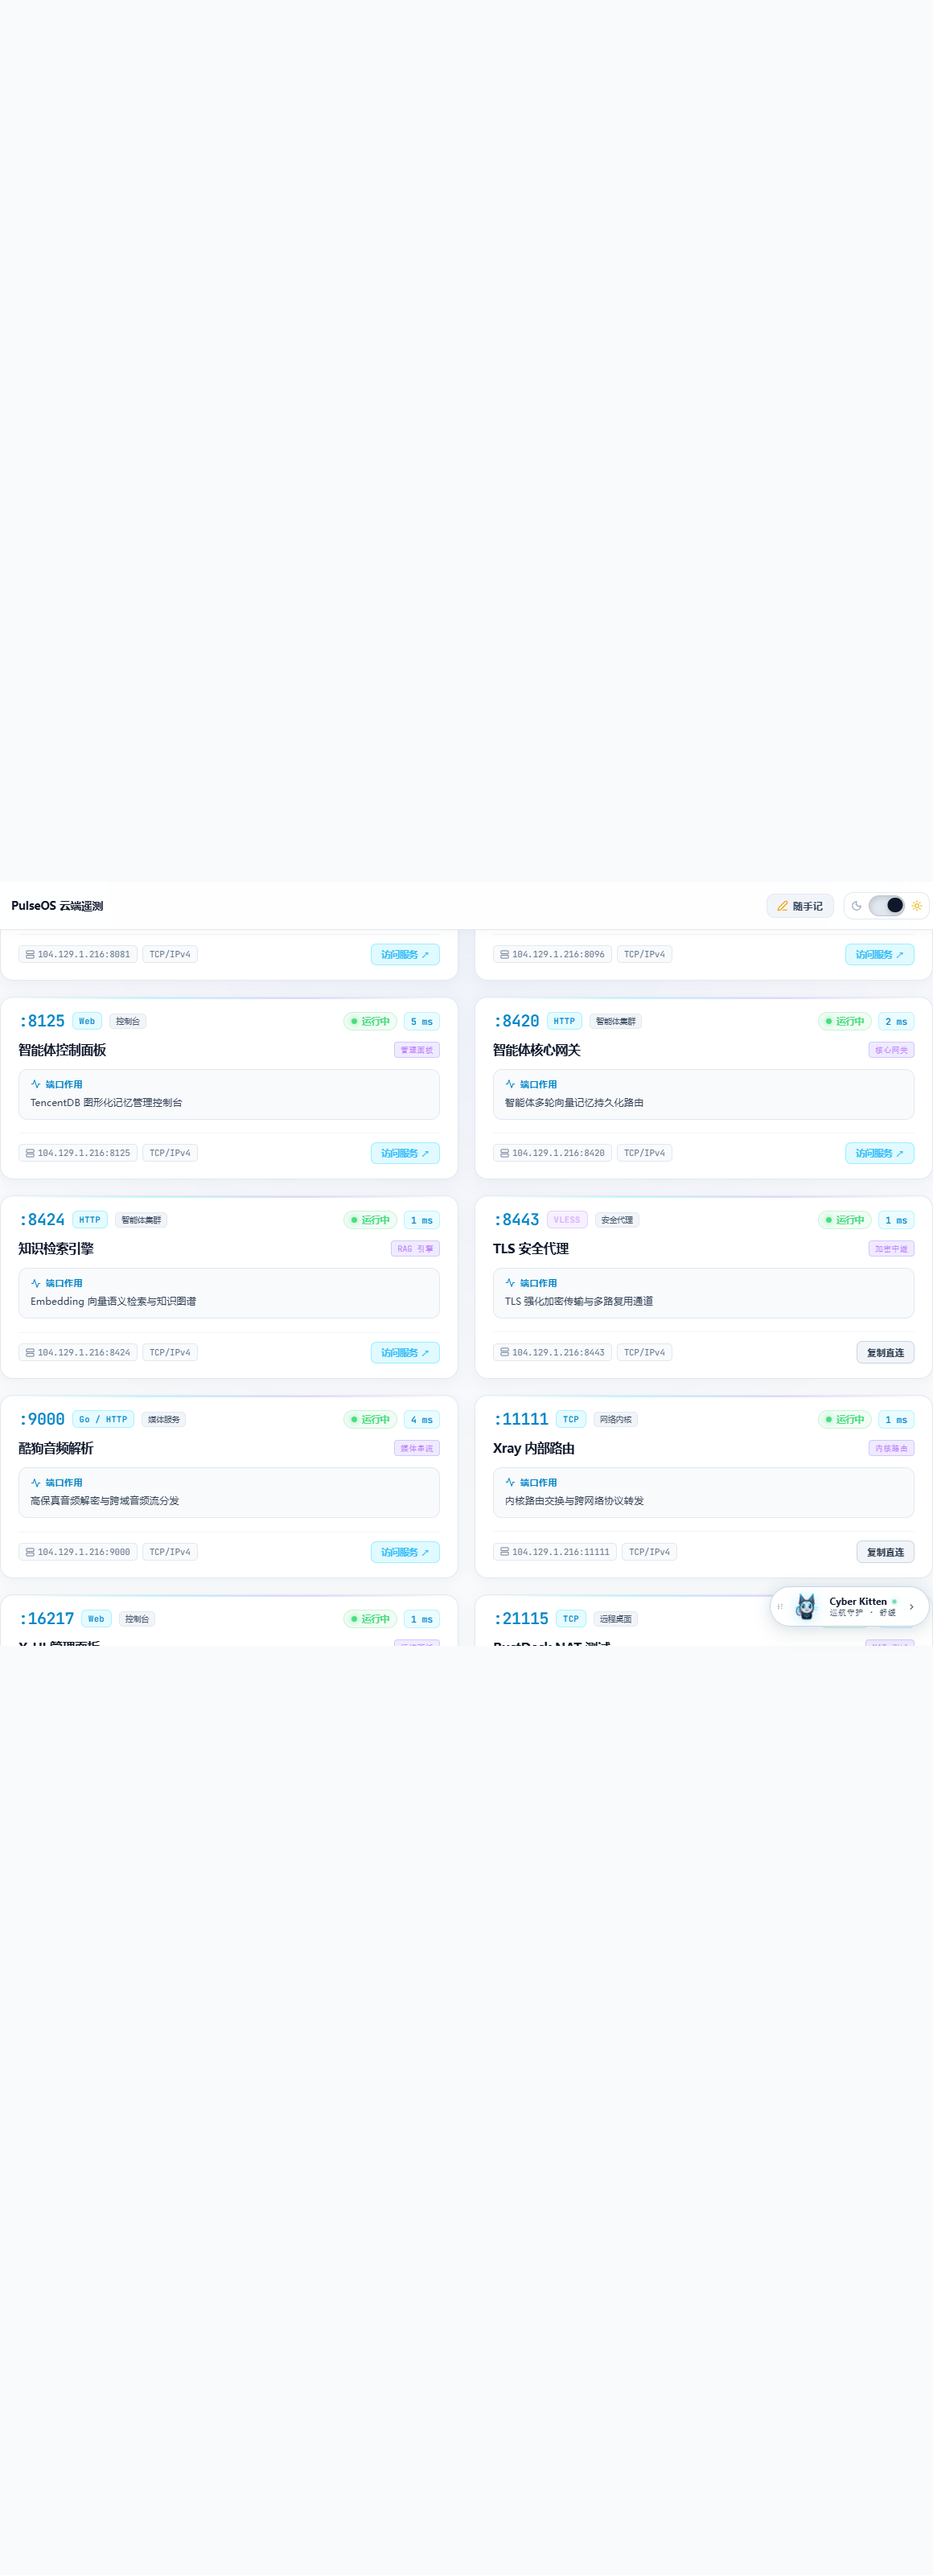
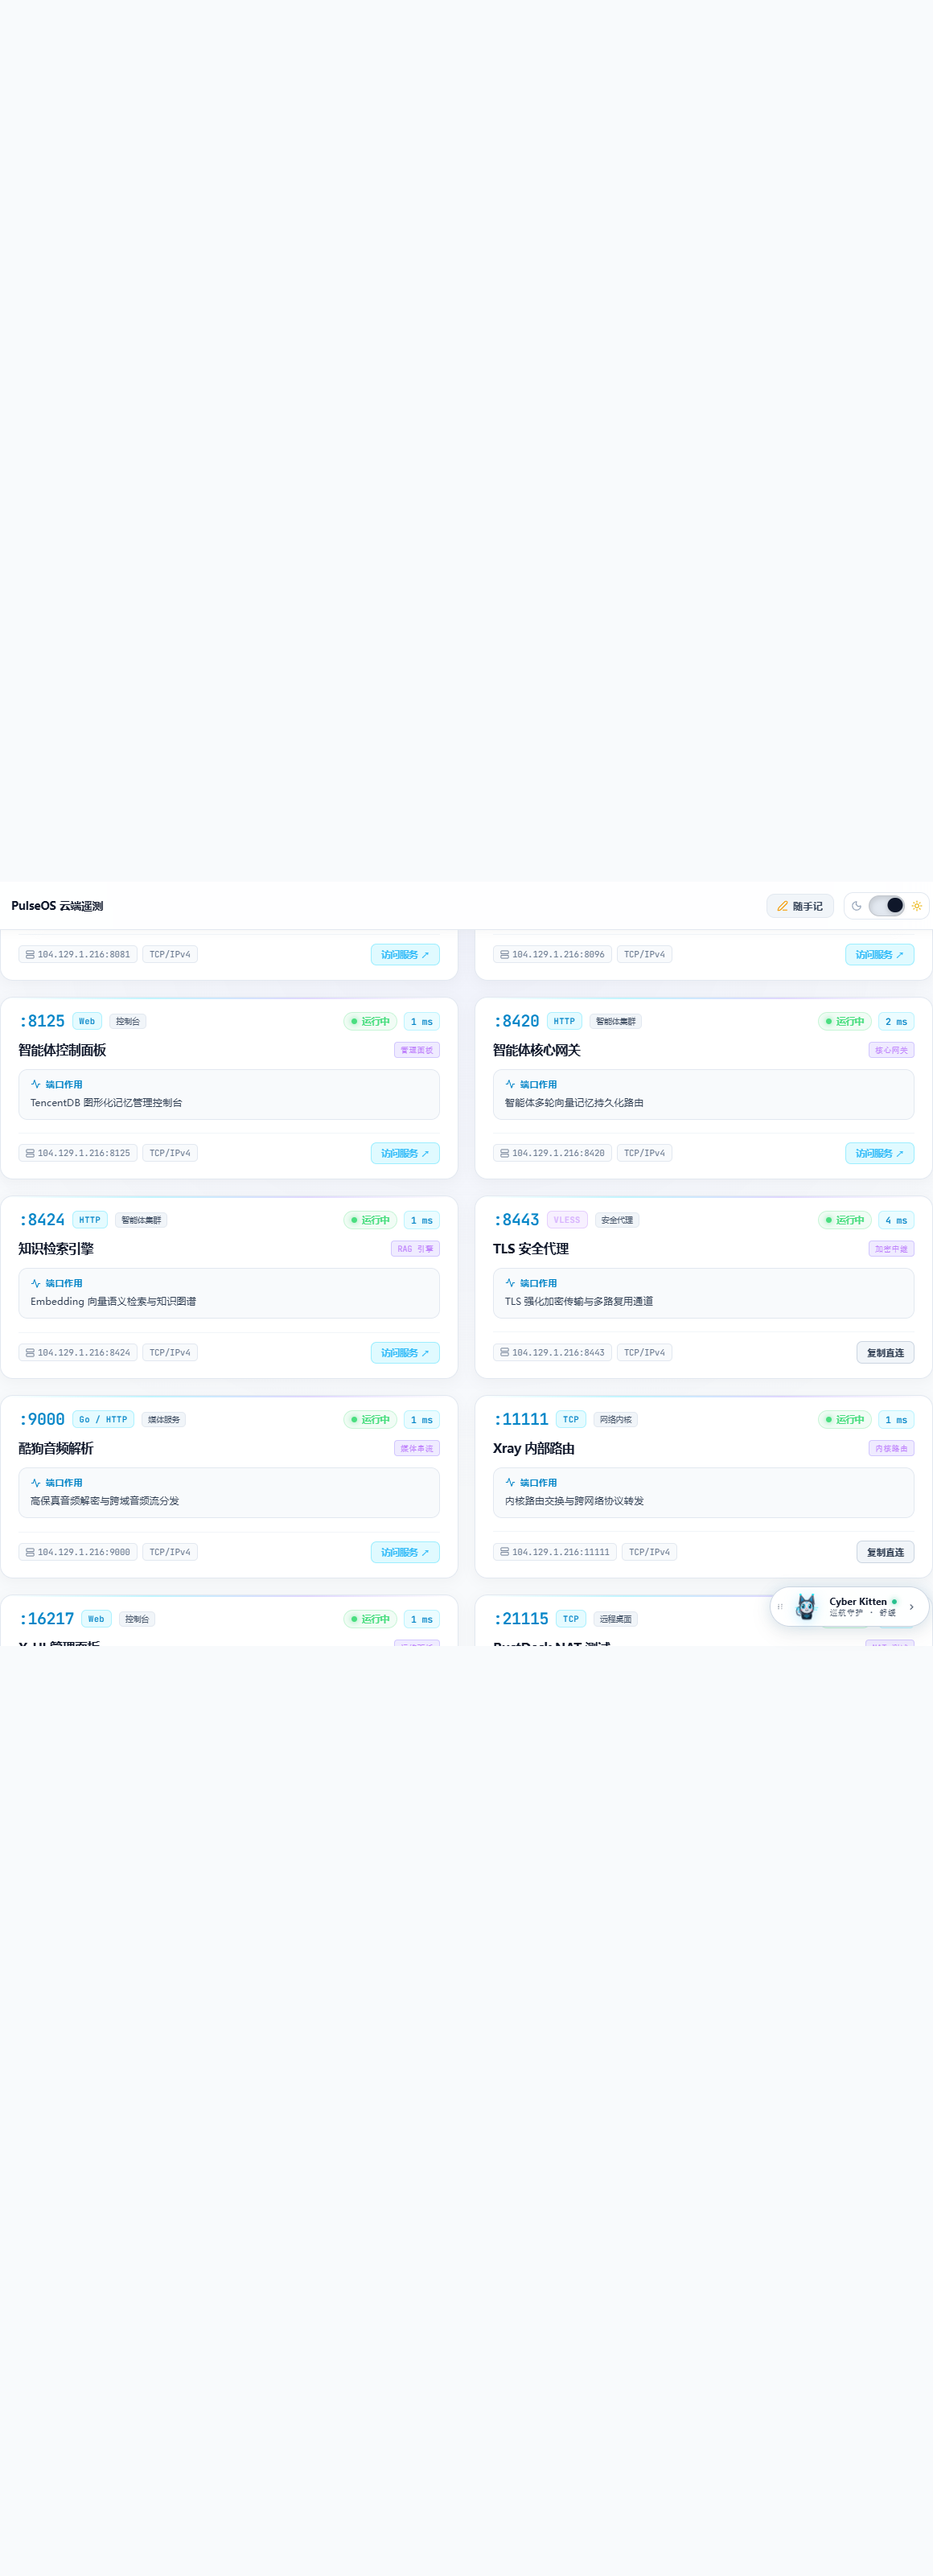
style(docker): harmonize container ports typography with Image and Since lines

diff --git a/frontend/workspace.html b/frontend/workspace.html
@@ -20061,11 +20061,14 @@ var QRCode;!function(){function a(a){this.mode=c.MODE_8BIT_BYTE,this.data=a,this
 
         let portsDisplay = '';
         const rawPorts = (c.Ports || '').trim();
+        let portsVal = '';
         if (rawPorts) {
-          const isHost = rawPorts.toLowerCase().includes('host');
-          portsDisplay = `<br/><b>Ports:</b> <span class="dk-port-tag" style="display:inline-flex; align-items:center; gap:3px; font-family:var(--font-mono, monospace); font-size:0.68rem; color:${isHost ? '#38bdf8' : 'var(--pulseos-c, #00d4ff)'}; background:rgba(0,145,255,0.08); padding:1px 6px; border-radius:4px; border:1px solid rgba(0,145,255,0.22); margin-top:2px; word-break:break-all;"><i data-lucide="${isHost ? 'radio' : 'network'}" style="width:10px;height:10px;flex-shrink:0;"></i><span>${escapeHtml(rawPorts)}</span></span>`;
+          portsVal = escapeHtml(rawPorts);
         } else if (c.Networks === 'host' || (c.NetworkMode || '').toLowerCase() === 'host') {
-          portsDisplay = `<br/><b>Ports:</b> <span class="dk-port-tag host" style="display:inline-flex; align-items:center; gap:3px; font-family:var(--font-mono, monospace); font-size:0.68rem; color:#38bdf8; background:rgba(56,189,248,0.08); padding:1px 6px; border-radius:4px; border:1px solid rgba(56,189,248,0.22); margin-top:2px;"><i data-lucide="radio" style="width:10px;height:10px;flex-shrink:0;"></i><span>Host Network (共享宿主机网络)</span></span>`;
+          portsVal = 'Host (共享宿主机网络)';
+        }
+        if (portsVal) {
+          portsDisplay = `<br/><b>Ports:</b> ${portsVal}`;
         }
 
         const newHtml = `<div class="dk-dot ${on ? 'on' : 'off'}"></div><div style="flex:1"><div class="dk-name" style="display:flex;align-items:center;justify-content:space-between;"><span>${name}</span>${statusPill}</div><div class="dk-meta">${c.Status || c.State || '—'}<br/><b>Image:</b> ${(c.Image || '—').substring(0, 40)}${portsDisplay}${c.RunningFor ? `<br/><b>Since:</b> ${c.RunningFor}` : ''}</div>

diff --git a/workspace.html b/workspace.html
@@ -20061,11 +20061,14 @@ var QRCode;!function(){function a(a){this.mode=c.MODE_8BIT_BYTE,this.data=a,this
 
         let portsDisplay = '';
         const rawPorts = (c.Ports || '').trim();
+        let portsVal = '';
         if (rawPorts) {
-          const isHost = rawPorts.toLowerCase().includes('host');
-          portsDisplay = `<br/><b>Ports:</b> <span class="dk-port-tag" style="display:inline-flex; align-items:center; gap:3px; font-family:var(--font-mono, monospace); font-size:0.68rem; color:${isHost ? '#38bdf8' : 'var(--pulseos-c, #00d4ff)'}; background:rgba(0,145,255,0.08); padding:1px 6px; border-radius:4px; border:1px solid rgba(0,145,255,0.22); margin-top:2px; word-break:break-all;"><i data-lucide="${isHost ? 'radio' : 'network'}" style="width:10px;height:10px;flex-shrink:0;"></i><span>${escapeHtml(rawPorts)}</span></span>`;
+          portsVal = escapeHtml(rawPorts);
         } else if (c.Networks === 'host' || (c.NetworkMode || '').toLowerCase() === 'host') {
-          portsDisplay = `<br/><b>Ports:</b> <span class="dk-port-tag host" style="display:inline-flex; align-items:center; gap:3px; font-family:var(--font-mono, monospace); font-size:0.68rem; color:#38bdf8; background:rgba(56,189,248,0.08); padding:1px 6px; border-radius:4px; border:1px solid rgba(56,189,248,0.22); margin-top:2px;"><i data-lucide="radio" style="width:10px;height:10px;flex-shrink:0;"></i><span>Host Network (共享宿主机网络)</span></span>`;
+          portsVal = 'Host (共享宿主机网络)';
+        }
+        if (portsVal) {
+          portsDisplay = `<br/><b>Ports:</b> ${portsVal}`;
         }
 
         const newHtml = `<div class="dk-dot ${on ? 'on' : 'off'}"></div><div style="flex:1"><div class="dk-name" style="display:flex;align-items:center;justify-content:space-between;"><span>${name}</span>${statusPill}</div><div class="dk-meta">${c.Status || c.State || '—'}<br/><b>Image:</b> ${(c.Image || '—').substring(0, 40)}${portsDisplay}${c.RunningFor ? `<br/><b>Since:</b> ${c.RunningFor}` : ''}</div>
